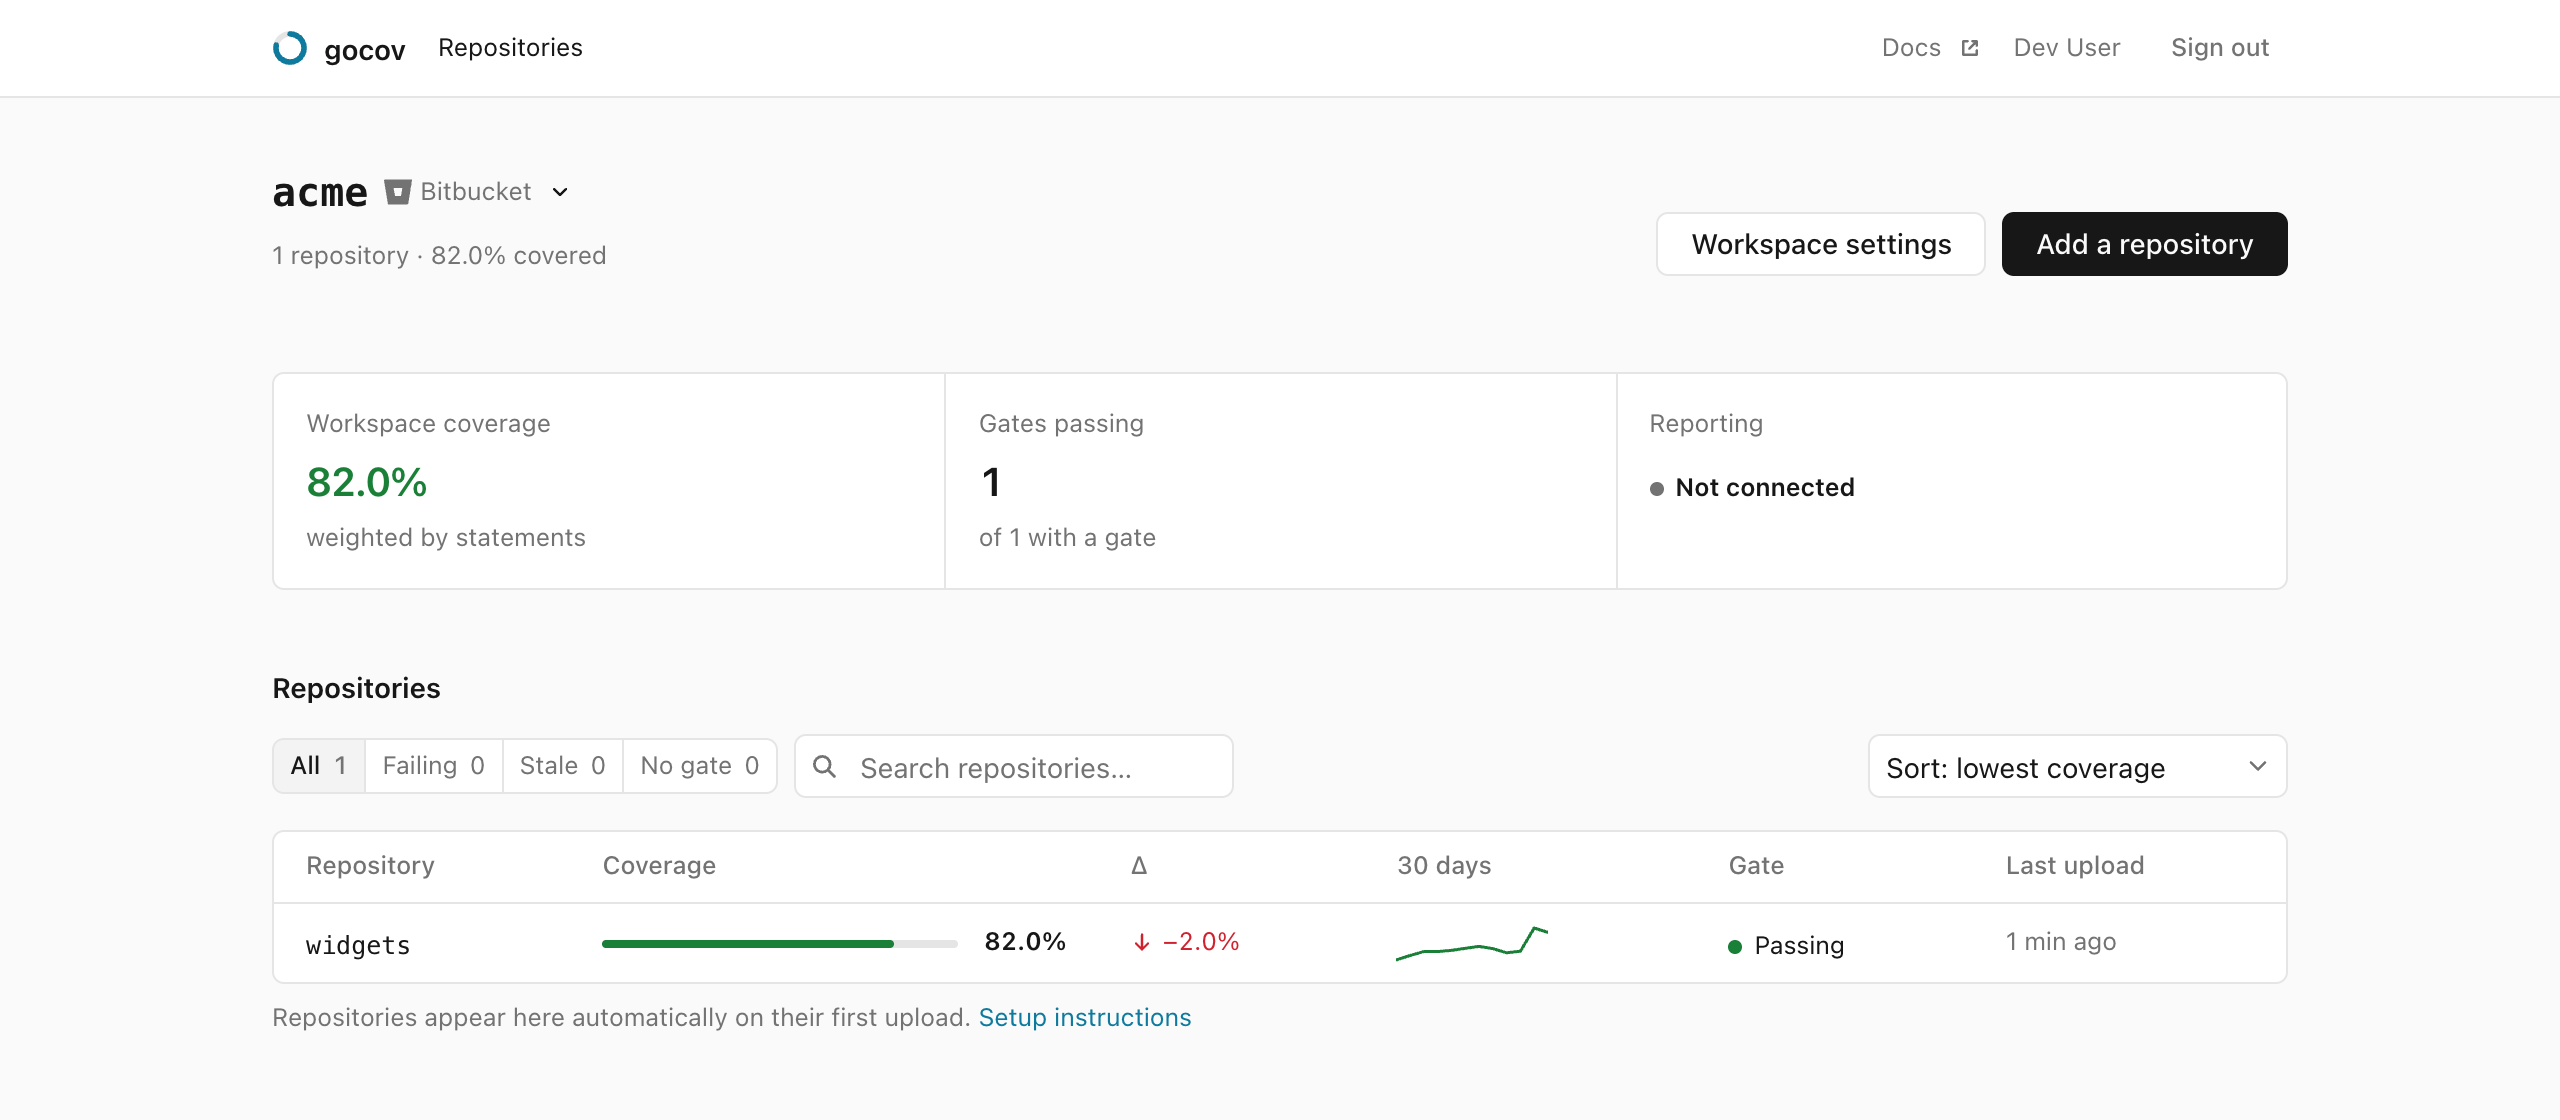
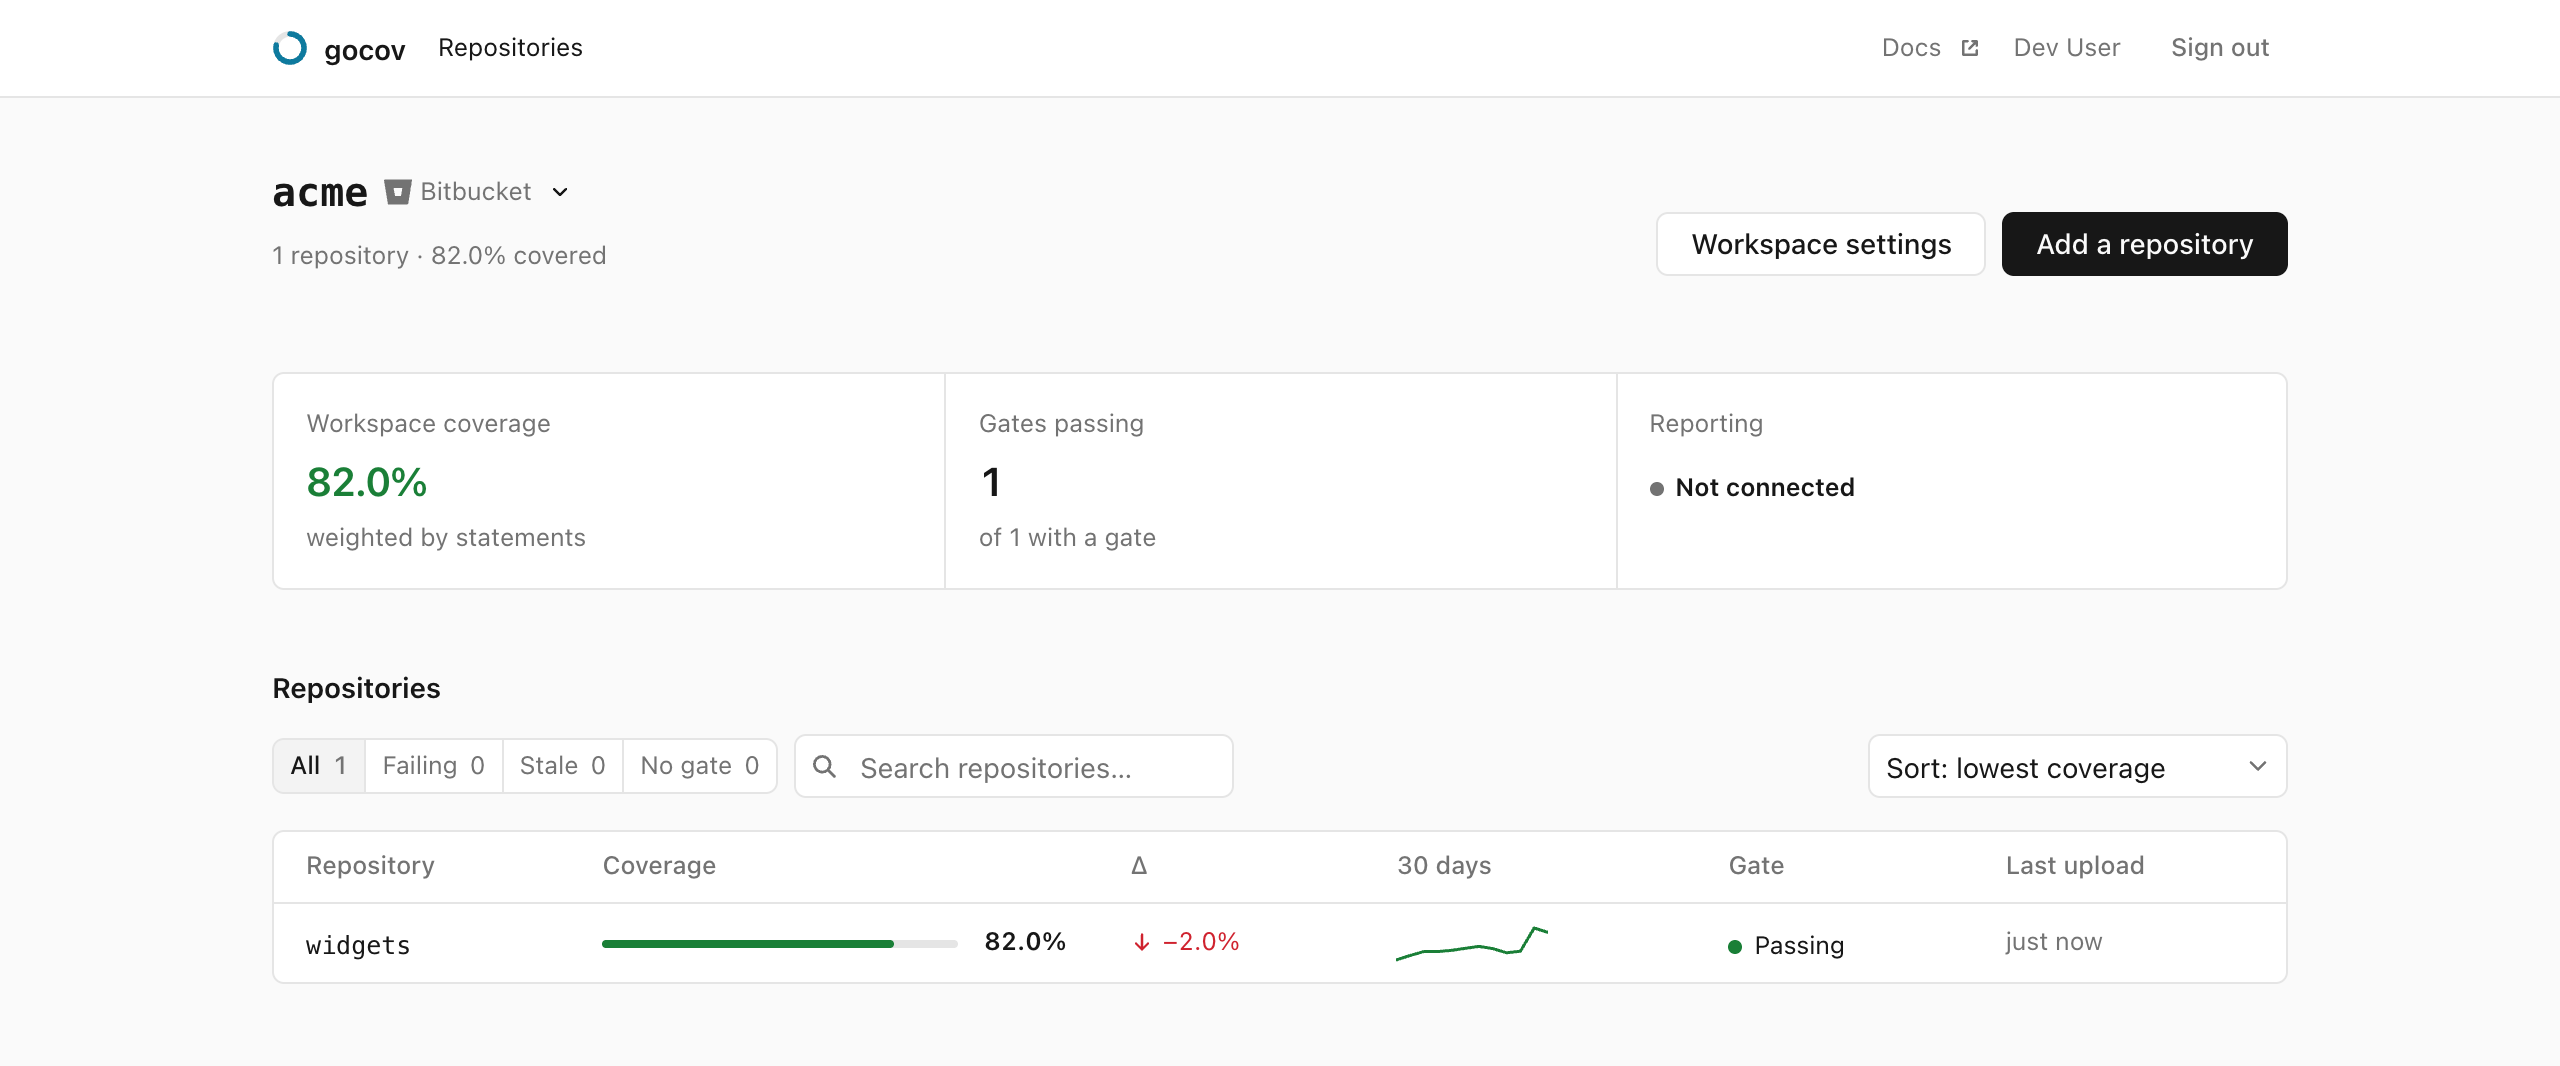
refactor: drop the dashboard's redundant setup hint
The line under the repositories table repeated what the Add a repository button above it already offers. The empty state keeps its Setup instructions button. DashboardPage.css goes with it: the hint was its only rule, and the file was never imported. The docs screenshot is re-shot without the line.

diff --git a/web/src/pages/DashboardPage.tsx b/web/src/pages/DashboardPage.tsx
@@ -14,7 +14,6 @@ import { pct, plural } from "@/lib/format";
 import { useUrlNotice } from "@/lib/notice";
 import { usePageTitle } from "@/lib/title";
 import { routes } from "@/lib/urls";
-import "./DashboardPage.css";
 import { attentionRows } from "@/lib/dashboard";
 
 /** The codes the connect redirects carry, said the way this page can act on them. */
@@ -211,12 +210,7 @@ function Workspace({ data, current }: { data: Dashboard; current: WorkspaceGroup
       <section className="stack stack-1">
         <SectionHeader title="Repositories" />
         {repos.length > 0 ? (
-          <>
-            <ReposTable repos={repos} />
-            <p className="Dashboard__hint">
-              Repositories appear here automatically on their first upload. <Link to={setup}>Setup instructions</Link>
-            </p>
-          </>
+          <ReposTable repos={repos} />
         ) : (
           <Card>
             <Card.Body>

diff --git a/web/src/pages/DashboardPage.test.tsx b/web/src/pages/DashboardPage.test.tsx
@@ -124,10 +124,8 @@ test("a populated workspace shows its rollup, its notices and its repositories",
 
   expect(screen.getByRole("heading", { name: "Repositories" })).toBeInTheDocument();
   expect(screen.getAllByRole("row")).toHaveLength(5); // header + 4
-  expect(screen.getByRole("link", { name: "Setup instructions" })).toHaveAttribute(
-    "href",
-    "/workspaces/github/acme/setup",
-  );
+  // Nothing under the table repeats what "Add a repository" already offers.
+  expect(screen.queryByRole("link", { name: "Setup instructions" })).not.toBeInTheDocument();
 });
 
 test("the table filters without another request", async () => {
